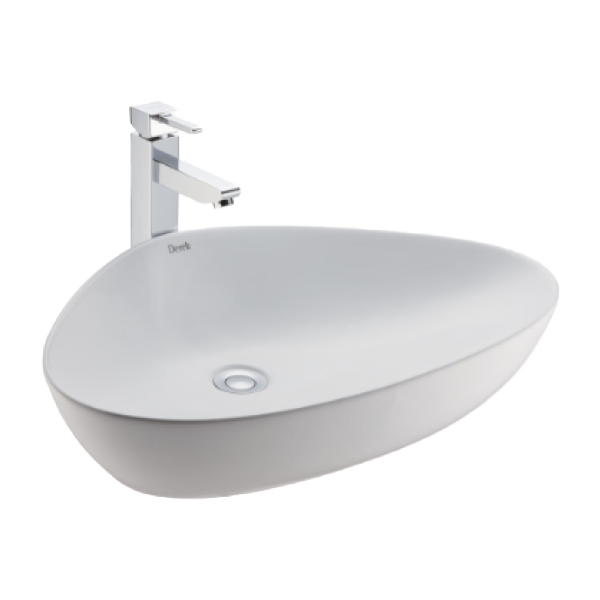
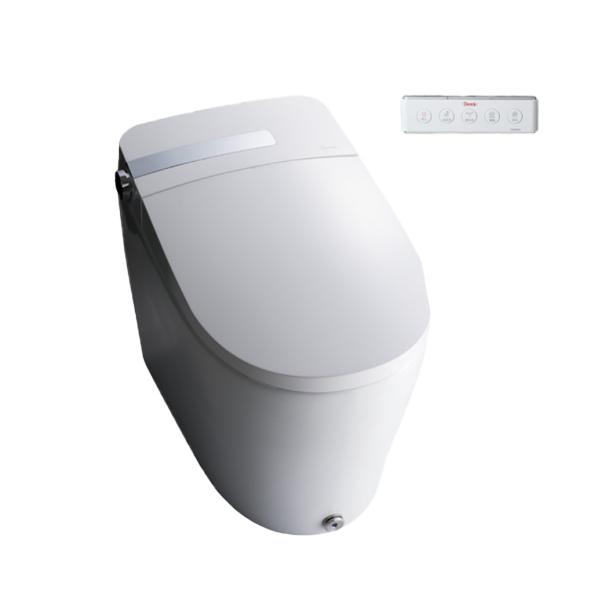
[update] 調整首頁css和更換圖片和文字

diff --git a/src/EtheriT.Coker.Web.Public/wwwroot/css/Home/Index.css b/src/EtheriT.Coker.Web.Public/wwwroot/css/Home/Index.css
@@ -117,6 +117,7 @@
                 #Guess_Like > .content > .frame > .tag > ul {
                     display: flex;
                     color: #8E8E8E;
+                    font-size: 0.8rem;
                     text-decoration: underline;
                 }
 
@@ -477,6 +478,7 @@
 
                 #Most_Popular > .content > .frame > .keywords > ul > li {
                     margin-right: 10px;
+                    font-size:0.8rem;
                 }
 
 /* InquiryAndCconsult */
@@ -577,7 +579,8 @@
             color: gray;
             cursor: pointer;
             background-color: white;
-            width: 5.6rem;
+            width: 10rem;
+            padding: 0.2rem;
             border-radius: 50px;
             text-align: center;
         }
@@ -607,7 +610,7 @@
             bottom: 4%;
             left: auto;
             width: 100%;
-            height: 2rem;
+            height: 3rem;
             display: flex;
             align-items: center;
             padding-left: 1rem;